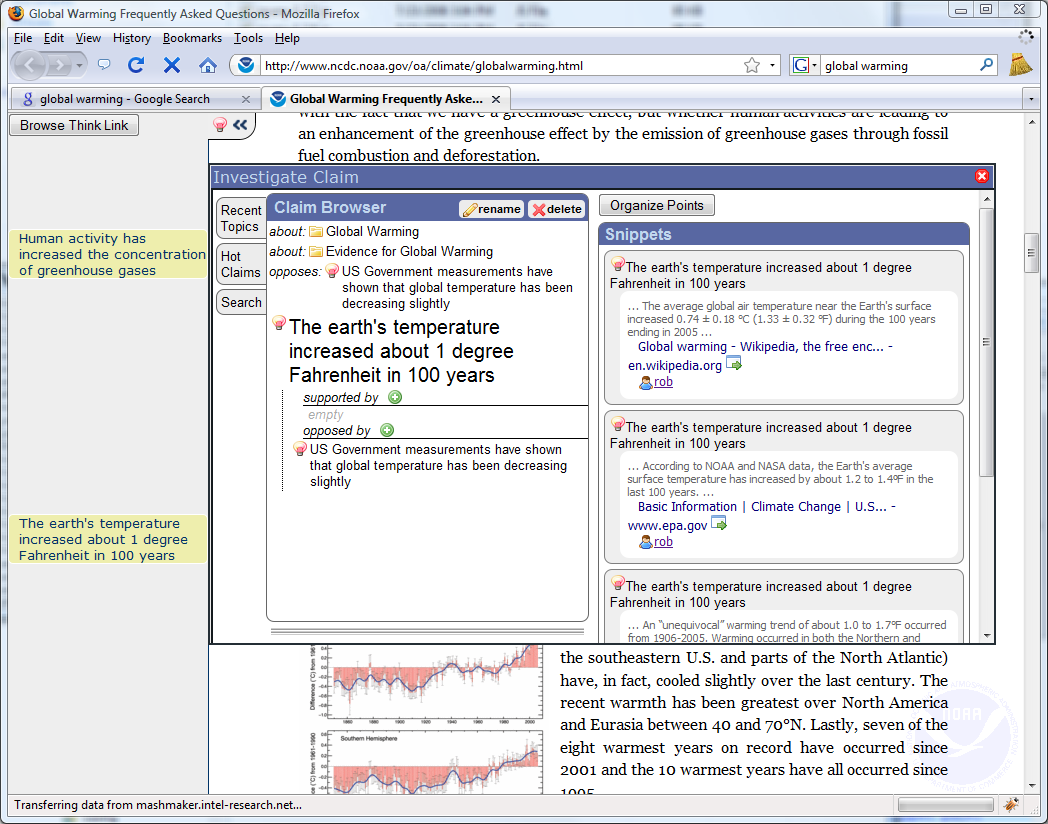
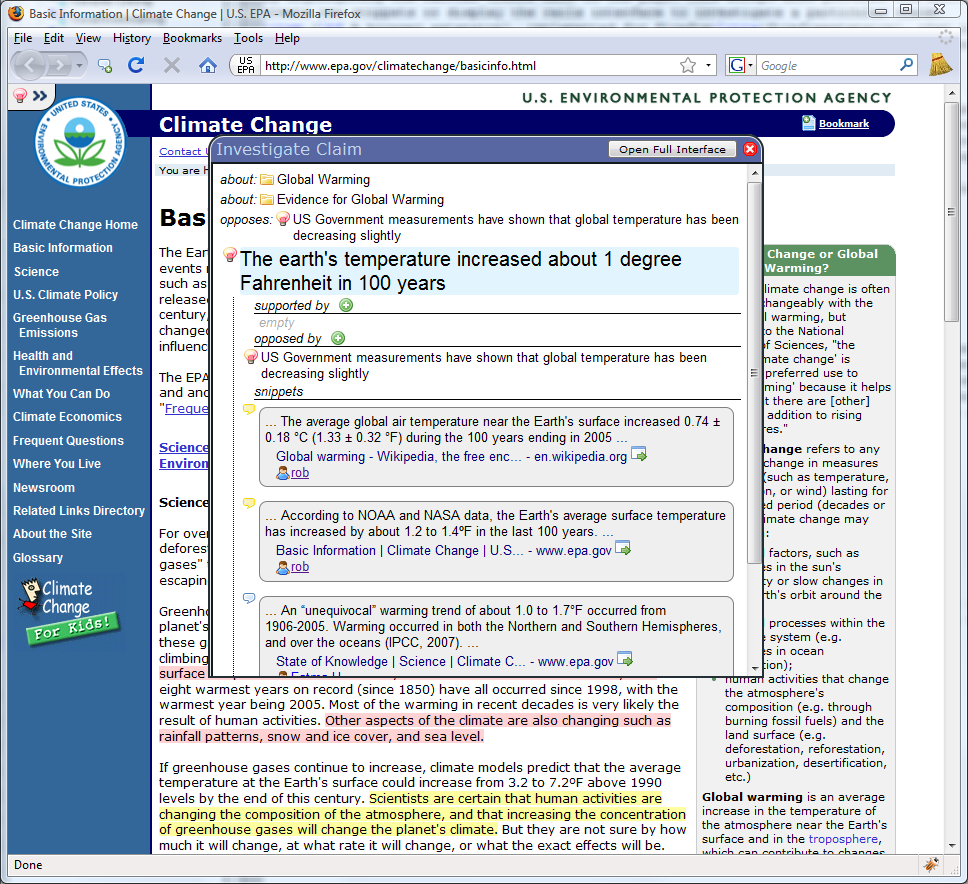
More fleshed out. Starting to write about the user studies

diff --git a/client_js/tl_point.js b/client_js/tl_point.js
@@ -103,7 +103,7 @@ function tl_point_browser() {
 
 			var buttonBox = $("<span/>").css("position","absolute").css("right","4px").appendTo(titleBar);
 			var titleBox = $("<nobr>").text("Investigate Claim").appendTo(titleBar);
-			var openButton = $("<input class='tl_openbutton' type='button' value='New Window'/>").appendTo(buttonBox);
+			var openButton = $("<input class='tl_openbutton' type='button' value='Open Full Interface'/>").appendTo(buttonBox);
 			
 			openButton.click(function(){
 				window.open(thinklink_mainhome);

diff --git a/papers/web_of_ideas/web_of_ideas.tex b/papers/web_of_ideas/web_of_ideas.tex
@@ -222,6 +222,8 @@ A topic can have any number of more specific topics (e.g. ``US Election 2008'' i
 
 When designing an interface to this structure, we were faced with two opposing constraints. We needed to be able to clearly view a large number of claims and topics in a small screen space, and we needed an interface that made it clear that the data was a graph rather than a tree. Dynamically reorganizing graphs such as those used in Vizster~\cite{vizster} and Personal Brain~\cite{thebrain} made the graph structure very clear, but made it difficult to clearly view large numbers of claims. Tree-based outliners such as OmniOutliner~\cite{outliner} made it easy to view large numbers of related claims, but made it difficult to present an impression of the data being a graph rather than a tree.
 
+\todo{This interface is actually closer to TheBrain than the text suggests}
+
 After several iterations, we settled on an interface that is a dynamically reorganizing graph layed out like an outliner. Like other dynamically reorganizing graphs, the interface is arranged around the currently selected node, and when a new node is selected the interface animates to surround the newly selected node with objects to relate to it. Like an outliner, the nodes that relate to the selected node are listed vertically below the selected node, each on their own line. Our users commented that they found it quite intuitive to navigate through a graph of claims and topics in this way. \studyresult{quote}.
 
 The placement of objects above and below is intended to emphasize the conventional structuring of an argument graph (Section~\ref{argumentgraph}), with topics going upwards and arguments for and against a claim going downwards. A user can navigate down to get to explore why a claim may or may not be true, or navigate up to find out about more general topics, or claims that the selected claim supports or opposes.
@@ -232,12 +234,25 @@ The placement of objects above and below is intended to emphasize the convention
 
 Animation is used throughout the interface to give users a sense of where they are and how the current interface state related to previous states. When a new item is selected, it grows in size and moves to the center. Other items that were already on the screen move from their current locations to their new locations. Other objects appear and disapper by smoothly sliding into or out of view. We found that this animation helps users retain a sense of where they are with respect to what they were looking at previously and helps users avoid getting lost (Section~\ref{gettinglost}).
 
+Users see a claim browser in three different places:
+\begin{itemize}
+\item {\bf The Main Organizer} shows two claim browsers, and allows users to use drag and drop to make new connections between claims in the two organizers. (Figure~\ref{fig:claimbrowser})
+\item {\bf The Popup Browser} shows one claim browser in a reduced-size window and is used to quickly investigate a claim found on a web page. (Figure~\ref{claimview})
+\item {\bf The Claim Selection Window} shows one claim browser, together with the text of a new snippet, and is used to identify the claim that a snippet is making. (Figure~\ref{snipsavefull}) 
+\end{itemize}
+
 
 \subsection{Organizing factual claims}
 
-Much of the value of Think Link comes from the connections between claims. It is thus important that it be easy to establish new connections between claims and topics.
+Much of the value of Think Link comes from the connections between claims. It is thus important that it be easy to establish new connections between claims and topics. 
 
+Think Link uses the familiar drag and drop interface for establishing new connections. To establish a connection between two claims, one need simply drag one claim onto the other. In the full interface, one can open two browsers and drag points from one browser onto points on the other.
 
+In our initial study, we found that many users did not realize that they could use drag and drop to create connections to existing claims. We rectify this, we added a notice at the top of the main organizer window (Figure~\ref{fig:claimbrowser}) telling users that they can use drag and drop.
+
+We found that creating new connections between existing claims was one of the things that users found most difficult.
+
+\todo{say more here}
 
 \section{Discussion}
 
@@ -268,7 +283,35 @@ We expect to have a public deployment available by the time of publication.
 
 We use icons from the free FamFamFam Silk~\cite{silkicons} collection.
 
+
 \section{Iterative Evaluation}
+
+We performed two user studies to guide and evaluate the development of Think Link. The aim of the first study was to talk to users about the way in which they gather knowledge on the web and see how they might try to use an initial prototype of Think Link. After the first study, we revised out implementation, guided by our observations from the first study. The aim of the second study was to validate that our new design was indeed useful and to look for areas for future improvement.
+
+\subsection{Protocol for the First Study}
+
+For the first study, we recruited 13 paid participants. Five were female, eight were male. Their ages ranged from high school age to retired. 
+
+Our user study participants were selected from a pool of respondents to a Craigslist posting in which we asked for people who use the internet as one of their primary sources of information, regularly gather and share this information, and are interested in a new application to facilitate that process. We chose participants based on their responses to the following questions:
+\begin{enumerate}
+	\item What topics or types of information do you usually look for on the internet?
+	\item How do usually go about finding information? (e.g. google, digg, friends, etc)
+	\item How do you organize the information you find? (e.g. text file, paper, wiki, etc)
+	\item How do you share information with others? (e.g. blog posts, comments, email, facebook, etc)
+\end{enumerate}
+We preferred individuals who search the internet for research and reading news rather than online shopping, as well as those interested in social and collaborative web activities like social networking web sites.  We were also interested in those who seemed to express a need for our application: people who copy-and-paste text from web pages into word processing documents, or who regularly email web page addresses to friends. 
+
+Each study session lasted between thirty to forty-five minutes, with the participant sitting at a desktop computer with the Firefox browser running the application plugin. The session was a Think-Aloud study in which the participant verbally describes his/her thoughts throughout the duration of the study. A video camera captured the audio/video and was focused on the monitor screen. Before the session began, we briefly demonstrated the features of the application: how to (1) select snippets, (2) write a snippet topic and point, (3) relate points, (4) show/hide the margin, and (5) browse recent activity.
+
+The study consisted of two tasks to collect snippets, each lasting ten to fifteen minutes. During both tasks, we asked participants to browse the web as they normally would. In the first task, the participant browses the web about a topic or issue of their choice from the domain of politics. The collection of snippets should help the participant either argue or form an opinion/perspective about the topic, and should be thought of being used to help him/her explain or discuss the topic with a friend.  We constrained the first task to politics to increase the likelihood that the study participants would encounter similar issues and news stories.
+
+For the second task, the participant was allowed to browse for any topic of their choosing. While the likelihood of topic overlap across participants was much lower, we were able to observe their behavior when searching for information in which each person had genuine interest.
+
+At the conclusion of the session, we asked the participant if the application is something that would be likely to use, and for what purposes they would find it most useful. Any confusing features or experiences were also noted.
+
+\subsection{Protocol for the Second Study}
+
+
 
 Think link was developed using an iterative design process. During each iteration, we would talk to participants about the way they found and organized information on the web, and then perform a think aloud study where the participants would use the tool and tell us what they were thinking. After each iteration, we would study what we had learned from the participants and update our prototype accordingly. We went through a total of four iterations, with varying degrees of formality.
 
@@ -323,6 +366,8 @@ describe results,
 
 \subsection{Sensemaking}
 
+\cite{scenthighlights}\cite{scenttrails}
+
 \subsection{Argumentation Theory}
 
 The 
@@ -357,6 +402,8 @@ mation spaces.
 
 \subsection{Web Annotation Systems}
 
+\cite{personalweb}
+
 Diigo lets you save, import, tag, highlight, mark up and share Web pages
 	select content on webpage
 	share bookmarked content; bookmark url and see what people have tagged on that page
@@ -380,6 +427,7 @@ DrawHere
 Google Notebook
 Trailfire
 Zotero~\cite{zotero} is a citation mangament tool. Find and organise sources, while recording author, date etc by understanding pages. Can add notes to sources.
+Scrapbook~\cite{scrapbook}
 
 \subsection{Semantic Linking}
 
@@ -409,26 +457,6 @@ Traditional argumentation graphs are designed to solve a specific, isolated issu
 
 \section{Observations Informing Design}
 
-
-\subsection{Recruitment}
-Our user study participants were selected from a pool of respondents to a Craigslist posting for people who use the internet as one of their primary sources of information, regularly gather and share this information, and are interested in a new application to facilitate that process. We chose participants based on their responses to the following questions:
-\begin{enumerate}
-	\item What topics or types of information do you usually look for on the internet?
-	\item How do usually go about finding information? (e.g. google, digg, friends, etc)
-	\item How do you organize the information you find? (e.g. text file, paper, wiki, etc)
-	\item How do you share information with others? (e.g. blog posts, comments, email, facebook, etc)
-\end{enumerate}
-We preferred individuals who search the internet for research and reading news rather than online shopping, as well as those interested in social and collaborative web activities like social networking web sites.  We were also interested in those who seemed to express a need for our application: people who copy-and-paste text from web pages into word processing documents, or who regularly email web page addresses to friends. Twelve people were selected to participate in this study.
-
-\subsection{Study Environment}
-Each study session lasted between thirty to forty-five minutes, with the participant sitting at a desktop computer with the Firefox browser running the application plugin. The session was a Think-Aloud study in which the participant verbally describes his/her thoughts throughout the duration of the study. A video camera captured the audio/video and was focused on the monitor screen. Before the session began, we briefly demonstrated the features of the application: how to (1) select snippets, (2) write a snippet topic and point, (3) relate points, (4) show/hide the margin, and (5) browse recent activity.
-
-\subsection{Study Tasks}
-The study consisted of two tasks to collect snippets, each lasting ten to fifteen minutes. During both tasks, we asked participants to browse the web as they normally would. In the first task, the participant browses the web about a topic or issue of their choice from the domain of politics. The collection of snippets should help the participant either argue or form an opinion/perspective about the topic, and should be thought of being used to help him/her explain or discuss the topic with a friend.  We constrained the first task to politics to increase the likelihood that the study participants would encounter similar issues and news stories.
-
-For the second task, the participant was allowed to browse for any topic of their choosing. While the likelihood of topic overlap across participants was much lower, we were able to observe their behavior when searching for information in which each person had genuine interest.
-
-At the conclusion of the session, we asked the participant if the application is something that would be likely to use, and for what purposes they would find it most useful. Any confusing features or experiences were also noted.
 
 \subsection{Observations and Discussion}
 % observed good and bad things
